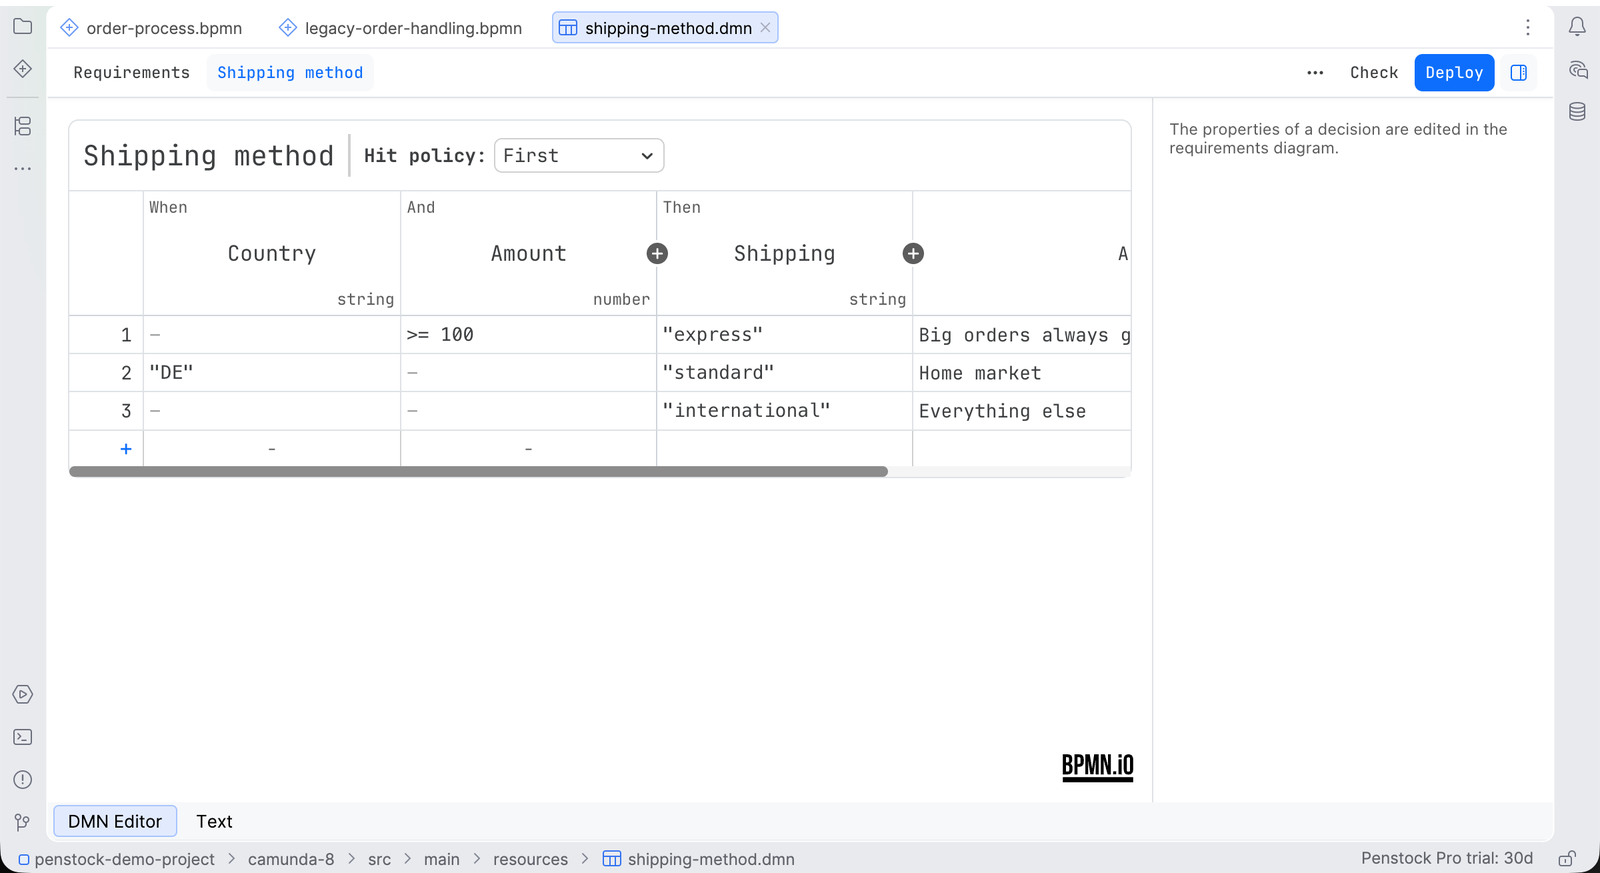
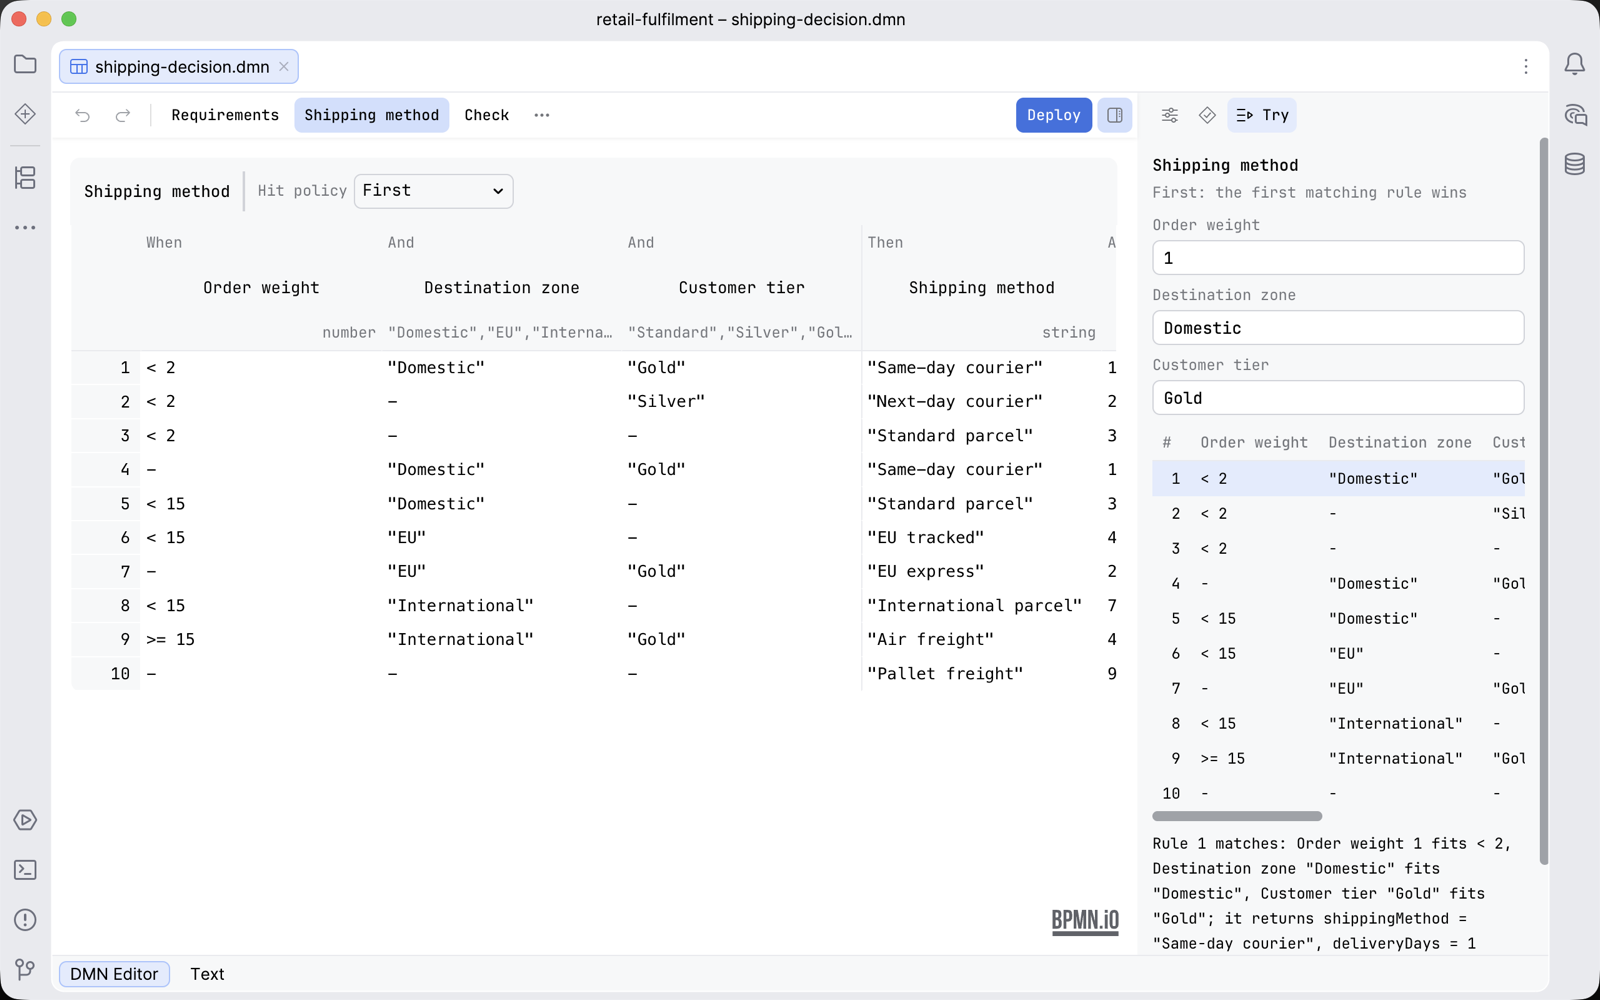
Use the new store frames for the editor, Problems, DMN and Scenarios pictures, add the VS Code frames, and say what each picture shows

diff --git a/tools/pages/guide/diagram-check.html b/tools/pages/guide/diagram-check.html
@@ -31,8 +31,8 @@ related: validation, flow-analysis, auto-layout, sidebar, cli/commands
 <p>While the card is open, every element that a problem is about carries an outline on the canvas. A small pill on the canvas carries the count, and the badge on the Problems tab carries it too. The pill is hidden while the card is open, since the card says the same thing, and both count the same findings: a compatibility rule the linter reports as information counts as a warning, and a problem two checks both report is counted once. With nothing wrong, the card says <em>Nothing to report across N elements and connections</em> and the pill says <em>No Issues</em>.</p>
 
 <figure class="shot">
-  <img src="@img/editor-overview.png" alt="A clean diagram with the No Issues pill under the canvas and the Problems tab of the sidebar with no badge">
-  <figcaption>Nothing to report. The pill under the canvas reads No Issues, and the Problems tab carries no badge.</figcaption>
+  <img src="@img/problems-tab.png" alt="The Problems tab of the sidebar for a diagram with three errors and two warnings, grouped under How it runs and Rules, each finding with its rule id, and a Recheck button at the top">
+  <figcaption>The Problems tab holds every finding of the diagram. They are grouped, each one names its rule, and the tab carries the count as a badge.</figcaption>
 </figure>
 
 <h2>Every check has an id</h2>

diff --git a/docs/guide/diagram-check.html b/docs/guide/diagram-check.html
@@ -145,8 +145,8 @@
 <p>While the card is open, every element that a problem is about carries an outline on the canvas. A small pill on the canvas carries the count, and the badge on the Problems tab carries it too. The pill is hidden while the card is open, since the card says the same thing, and both count the same findings: a compatibility rule the linter reports as information counts as a warning, and a problem two checks both report is counted once. With nothing wrong, the card says <em>Nothing to report across N elements and connections</em> and the pill says <em>No Issues</em>.</p>
 
 <figure class="shot">
-  <img src="../img/editor-overview.png" alt="A clean diagram with the No Issues pill under the canvas and the Problems tab of the sidebar with no badge">
-  <figcaption>Nothing to report. The pill under the canvas reads No Issues, and the Problems tab carries no badge.</figcaption>
+  <img src="../img/problems-tab.png" alt="The Problems tab of the sidebar for a diagram with three errors and two warnings, grouped under How it runs and Rules, each finding with its rule id, and a Recheck button at the top">
+  <figcaption>The Problems tab holds every finding of the diagram. They are grouped, each one names its rule, and the tab carries the count as a badge.</figcaption>
 </figure>
 
 <h2 id="every-check-has-an-id"><a href="#every-check-has-an-id">Every check has an id</a></h2>

diff --git a/tools/pages/guide/editing.html b/tools/pages/guide/editing.html
@@ -49,8 +49,8 @@ related: elements, properties-panel, sidebar, toolbar, scripts, token-simulation
 <p>A diagram opens fitted into the canvas at 100% at most, rather than cut off at the edge. Opening a panel over a fitted diagram fits it again, unless you have moved or zoomed it yourself. The <span class="ui">Fit diagram</span> action does it on demand, and it has a shortcut in every tool that has one. Switching your tool's theme keeps your zoom, your pan and your selection.</p>
 
 <figure class="shot">
-  <img src="@img/editor-overview.png" alt="A diagram open in the editor with the palette island on the left, the context pad on a selected service task, the problems pill under the canvas and the Properties tab of the sidebar">
-  <figcaption>The canvas with its palette island, a service task selected with its pad, and the properties of that task in the sidebar.</figcaption>
+  <img src="@img/editor-overview.png" alt="The order-to-cash diagram open in the editor with the palette island on the left of the canvas, the Approve order user task selected with its handles and the Properties tab of the sidebar on the right">
+  <figcaption>The canvas with its palette island, a user task selected, and the properties of that task in the sidebar.</figcaption>
 </figure>
 
 <h2>Undo and redo</h2>

diff --git a/docs/guide/dmn-editor.html b/docs/guide/dmn-editor.html
@@ -164,8 +164,8 @@
 <p>The DMN editor follows the theme of your tool, and looks like the diagram editor: the same toolbar order, the same floating palette, the same sidebar. Tables sit inset with quiet lines, no stripes, and a highlight on the row under the pointer.</p>
 
 <figure class="shot">
-  <img src="../img/dmn-editor.png" alt="A decision table open with its hit policy at the top, the Requirements and decision buttons on the bar, and the Properties tab of the sidebar saying the properties of a decision are edited in the requirements diagram">
-  <figcaption>A decision table with its hit policy. A decision is edited in the requirements diagram, which the Properties tab says when a table is open.</figcaption>
+  <img src="../img/dmn-editor.png" alt="The shipping method decision table with its hit policy First, four columns and ten rules, and the Try tab of the sidebar with three typed values, the rules listed with rule 1 marked as the match and the sentence saying why it matches">
+  <figcaption>A decision table with its hit policy. The Try tab runs the table against values you type, marks the rule that matches and says why.</figcaption>
 </figure>
 
 <h2 id="the-decision-table-check"><a href="#the-decision-table-check">The decision table check</a></h2>

diff --git a/docs/guide/editing.html b/docs/guide/editing.html
@@ -170,8 +170,8 @@
 <p>A diagram opens fitted into the canvas at 100% at most, rather than cut off at the edge. Opening a panel over a fitted diagram fits it again, unless you have moved or zoomed it yourself. The <span class="ui">Fit diagram</span> action does it on demand, and it has a shortcut in every tool that has one. Switching your tool's theme keeps your zoom, your pan and your selection.</p>
 
 <figure class="shot">
-  <img src="../img/editor-overview.png" alt="A diagram open in the editor with the palette island on the left, the context pad on a selected service task, the problems pill under the canvas and the Properties tab of the sidebar">
-  <figcaption>The canvas with its palette island, a service task selected with its pad, and the properties of that task in the sidebar.</figcaption>
+  <img src="../img/editor-overview.png" alt="The order-to-cash diagram open in the editor with the palette island on the left of the canvas, the Approve order user task selected with its handles and the Properties tab of the sidebar on the right">
+  <figcaption>The canvas with its palette island, a user task selected, and the properties of that task in the sidebar.</figcaption>
 </figure>
 
 <h2 id="undo-and-redo"><a href="#undo-and-redo">Undo and redo</a></h2>

diff --git a/tools/pages/guide/dmn-editor.html b/tools/pages/guide/dmn-editor.html
@@ -51,8 +51,8 @@ related: form-editor, deployment, share-html, flow-analysis, sidebar
 <p>The DMN editor follows the theme of your tool, and looks like the diagram editor: the same toolbar order, the same floating palette, the same sidebar. Tables sit inset with quiet lines, no stripes, and a highlight on the row under the pointer.</p>
 
 <figure class="shot">
-  <img src="@img/dmn-editor.png" alt="A decision table open with its hit policy at the top, the Requirements and decision buttons on the bar, and the Properties tab of the sidebar saying the properties of a decision are edited in the requirements diagram">
-  <figcaption>A decision table with its hit policy. A decision is edited in the requirements diagram, which the Properties tab says when a table is open.</figcaption>
+  <img src="@img/dmn-editor.png" alt="The shipping method decision table with its hit policy First, four columns and ten rules, and the Try tab of the sidebar with three typed values, the rules listed with rule 1 marked as the match and the sentence saying why it matches">
+  <figcaption>A decision table with its hit policy. The Try tab runs the table against values you type, marks the rule that matches and says why.</figcaption>
 </figure>
 
 <h2>The decision table check</h2>

diff --git a/tools/pages/guide/properties-panel.html b/tools/pages/guide/properties-panel.html
@@ -14,8 +14,8 @@ related: sidebar, engine-profiles, scripts, element-templates
 </ol>
 
 <figure class="shot">
-  <img src="@img/editor-overview.png" alt="A service task selected on the canvas, with the Properties tab of the sidebar showing its Task definition group and the job type">
-  <figcaption>A Camunda 8 service task is selected. The Task definition group carries the job type the task runs, written into the file as you type.</figcaption>
+  <img src="@img/editor-overview.png" alt="A user task selected on the canvas, with the Properties tab of the sidebar listing its groups: General, Documentation, Implementation, Assignment, Form, input and output mapping, headers, listeners and extension properties">
+  <figcaption>A user task is selected. The Properties tab lists its groups, and what you change in a group is written into the file as you type.</figcaption>
 </figure>
 
 <p>The panel is the same one bpmn.io's properties panel draws, with the groups the engine profile defines. The other tabs beside it are <a href="scenarios.html">Scenarios</a>, <a href="diagram-check.html">Problems</a>, <a href="monitor.html">Monitor</a> and <a href="code-links.html">Code</a>. <a href="sidebar.html">The sidebar</a> covers the surface they all sit in.</p>

diff --git a/docs/guide/properties-panel.html b/docs/guide/properties-panel.html
@@ -126,8 +126,8 @@
 </ol>
 
 <figure class="shot">
-  <img src="../img/editor-overview.png" alt="A service task selected on the canvas, with the Properties tab of the sidebar showing its Task definition group and the job type">
-  <figcaption>A Camunda 8 service task is selected. The Task definition group carries the job type the task runs, written into the file as you type.</figcaption>
+  <img src="../img/editor-overview.png" alt="A user task selected on the canvas, with the Properties tab of the sidebar listing its groups: General, Documentation, Implementation, Assignment, Form, input and output mapping, headers, listeners and extension properties">
+  <figcaption>A user task is selected. The Properties tab lists its groups, and what you change in a group is written into the file as you type.</figcaption>
 </figure>
 
 <p>The panel is the same one bpmn.io's properties panel draws, with the groups the engine profile defines. The other tabs beside it are <a href="scenarios.html">Scenarios</a>, <a href="diagram-check.html">Problems</a>, <a href="monitor.html">Monitor</a> and <a href="code-links.html">Code</a>. <a href="sidebar.html">The sidebar</a> covers the surface they all sit in.</p>

diff --git a/tools/pages/guide/toolbar.html b/tools/pages/guide/toolbar.html
@@ -61,7 +61,7 @@ related: bpmn-editor, sidebar, diagram-check, deployment, editing
 <p>Check, Simulate, Monitor, Scenarios, Coverage, Transaction boundaries, Minimap and Sketchy drawing stay pressed while they are on. Undo, Redo, Copy, Paste and Auto layout refuse to run while a token simulation is on, so a read-only preview cannot be written to the file. See <a href="token-simulation.html">Token simulation</a>.</p>
 
 <figure class="shot">
-  <img src="@img/editor-overview.png" alt="A diagram open in the editor with the toolbar on top, the palette at the left of the canvas, the context pad on a service task and the Properties tab of the sidebar on the right">
+  <img src="@img/editor-overview.png" alt="A diagram open in the editor with the toolbar on top, the palette at the left of the canvas, a user task selected and the Properties tab of the sidebar on the right">
   <figcaption>The bar: undo and redo on the left, the actions you use most, the More menu, Deploy as the primary action and the sidebar toggle at the right edge. The badge on a sidebar tab is the count of findings.</figcaption>
 </figure>
 

diff --git a/tools/pages/jetbrains/test-runner.html b/tools/pages/jetbrains/test-runner.html
@@ -18,8 +18,8 @@ related: guide/scenarios, guide/process-tests, tool-window, code-links
 <p>The run uses the profile in force, or the one the run configuration names. The trace of each run is kept under <code>.penstock/runs/</code>, and its path is in the log. The same safety rules apply as everywhere: the engine must be marked for tests, or you confirm a local one once.</p>
 
 <figure class="shot">
-  <img src="@img/scenarios.png" alt="The Scenarios tab of the sidebar with a scenario's steps numbered on the diagram, its start variables and the step that is waiting">
-  <figcaption>The same scenario, read in the Scenarios tab beside the diagram it belongs to.</figcaption>
+  <img src="@img/scenarios.png" alt="The Scenarios tab of the sidebar in the IDE, listing the three scenarios of the order-to-cash diagram next to the diagram">
+  <figcaption>The scenarios of a diagram, listed in the Scenarios tab beside the diagram they belong to.</figcaption>
 </figure>
 
 <!-- image: test-case-gutter.png, a test case file open in the IDE with a run icon in the gutter next to each test case -->

diff --git a/tools/pages/guide/scenarios.html b/tools/pages/guide/scenarios.html
@@ -12,8 +12,8 @@ related: sidebar, process-tests, flow-analysis, monitor, settings, security, exa
 <p>A step that a mock answered carries a <span class="tag pro">Mocked</span> badge. A green run over mocks is not proof that your code works. The badge says so.</p>
 
 <figure class="shot">
-  <img src="@img/scenarios.png" alt="The Scenarios tab of the sidebar with a scenario's steps numbered on the diagram, its start variables and a user task step">
-  <figcaption>The Scenarios tab beside the diagram it belongs to. The steps carry numbers, the panel lists them in plain words with the values, and what the process is doing is drawn on the canvas.</figcaption>
+  <img src="@img/scenarios.png" alt="The Scenarios tab of the sidebar listing the three scenarios of the order-to-cash diagram, Generate and Run all above the list, and Open scenario and Run below it">
+  <figcaption>The Scenarios tab beside the diagram it belongs to: every scenario of the diagram, Generate and Run all above, and Open scenario and Run for the one selected.</figcaption>
 </figure>
 
 <h2>Before you begin</h2>

diff --git a/docs/guide/scenarios.html b/docs/guide/scenarios.html
@@ -125,8 +125,8 @@
 <p>A step that a mock answered carries a <span class="tag pro">Mocked</span> badge. A green run over mocks is not proof that your code works. The badge says so.</p>
 
 <figure class="shot">
-  <img src="../img/scenarios.png" alt="The Scenarios tab of the sidebar with a scenario's steps numbered on the diagram, its start variables and a user task step">
-  <figcaption>The Scenarios tab beside the diagram it belongs to. The steps carry numbers, the panel lists them in plain words with the values, and what the process is doing is drawn on the canvas.</figcaption>
+  <img src="../img/scenarios.png" alt="The Scenarios tab of the sidebar listing the three scenarios of the order-to-cash diagram, Generate and Run all above the list, and Open scenario and Run below it">
+  <figcaption>The Scenarios tab beside the diagram it belongs to: every scenario of the diagram, Generate and Run all above, and Open scenario and Run for the one selected.</figcaption>
 </figure>
 
 <h2 id="before-you-begin"><a href="#before-you-begin">Before you begin</a></h2>
